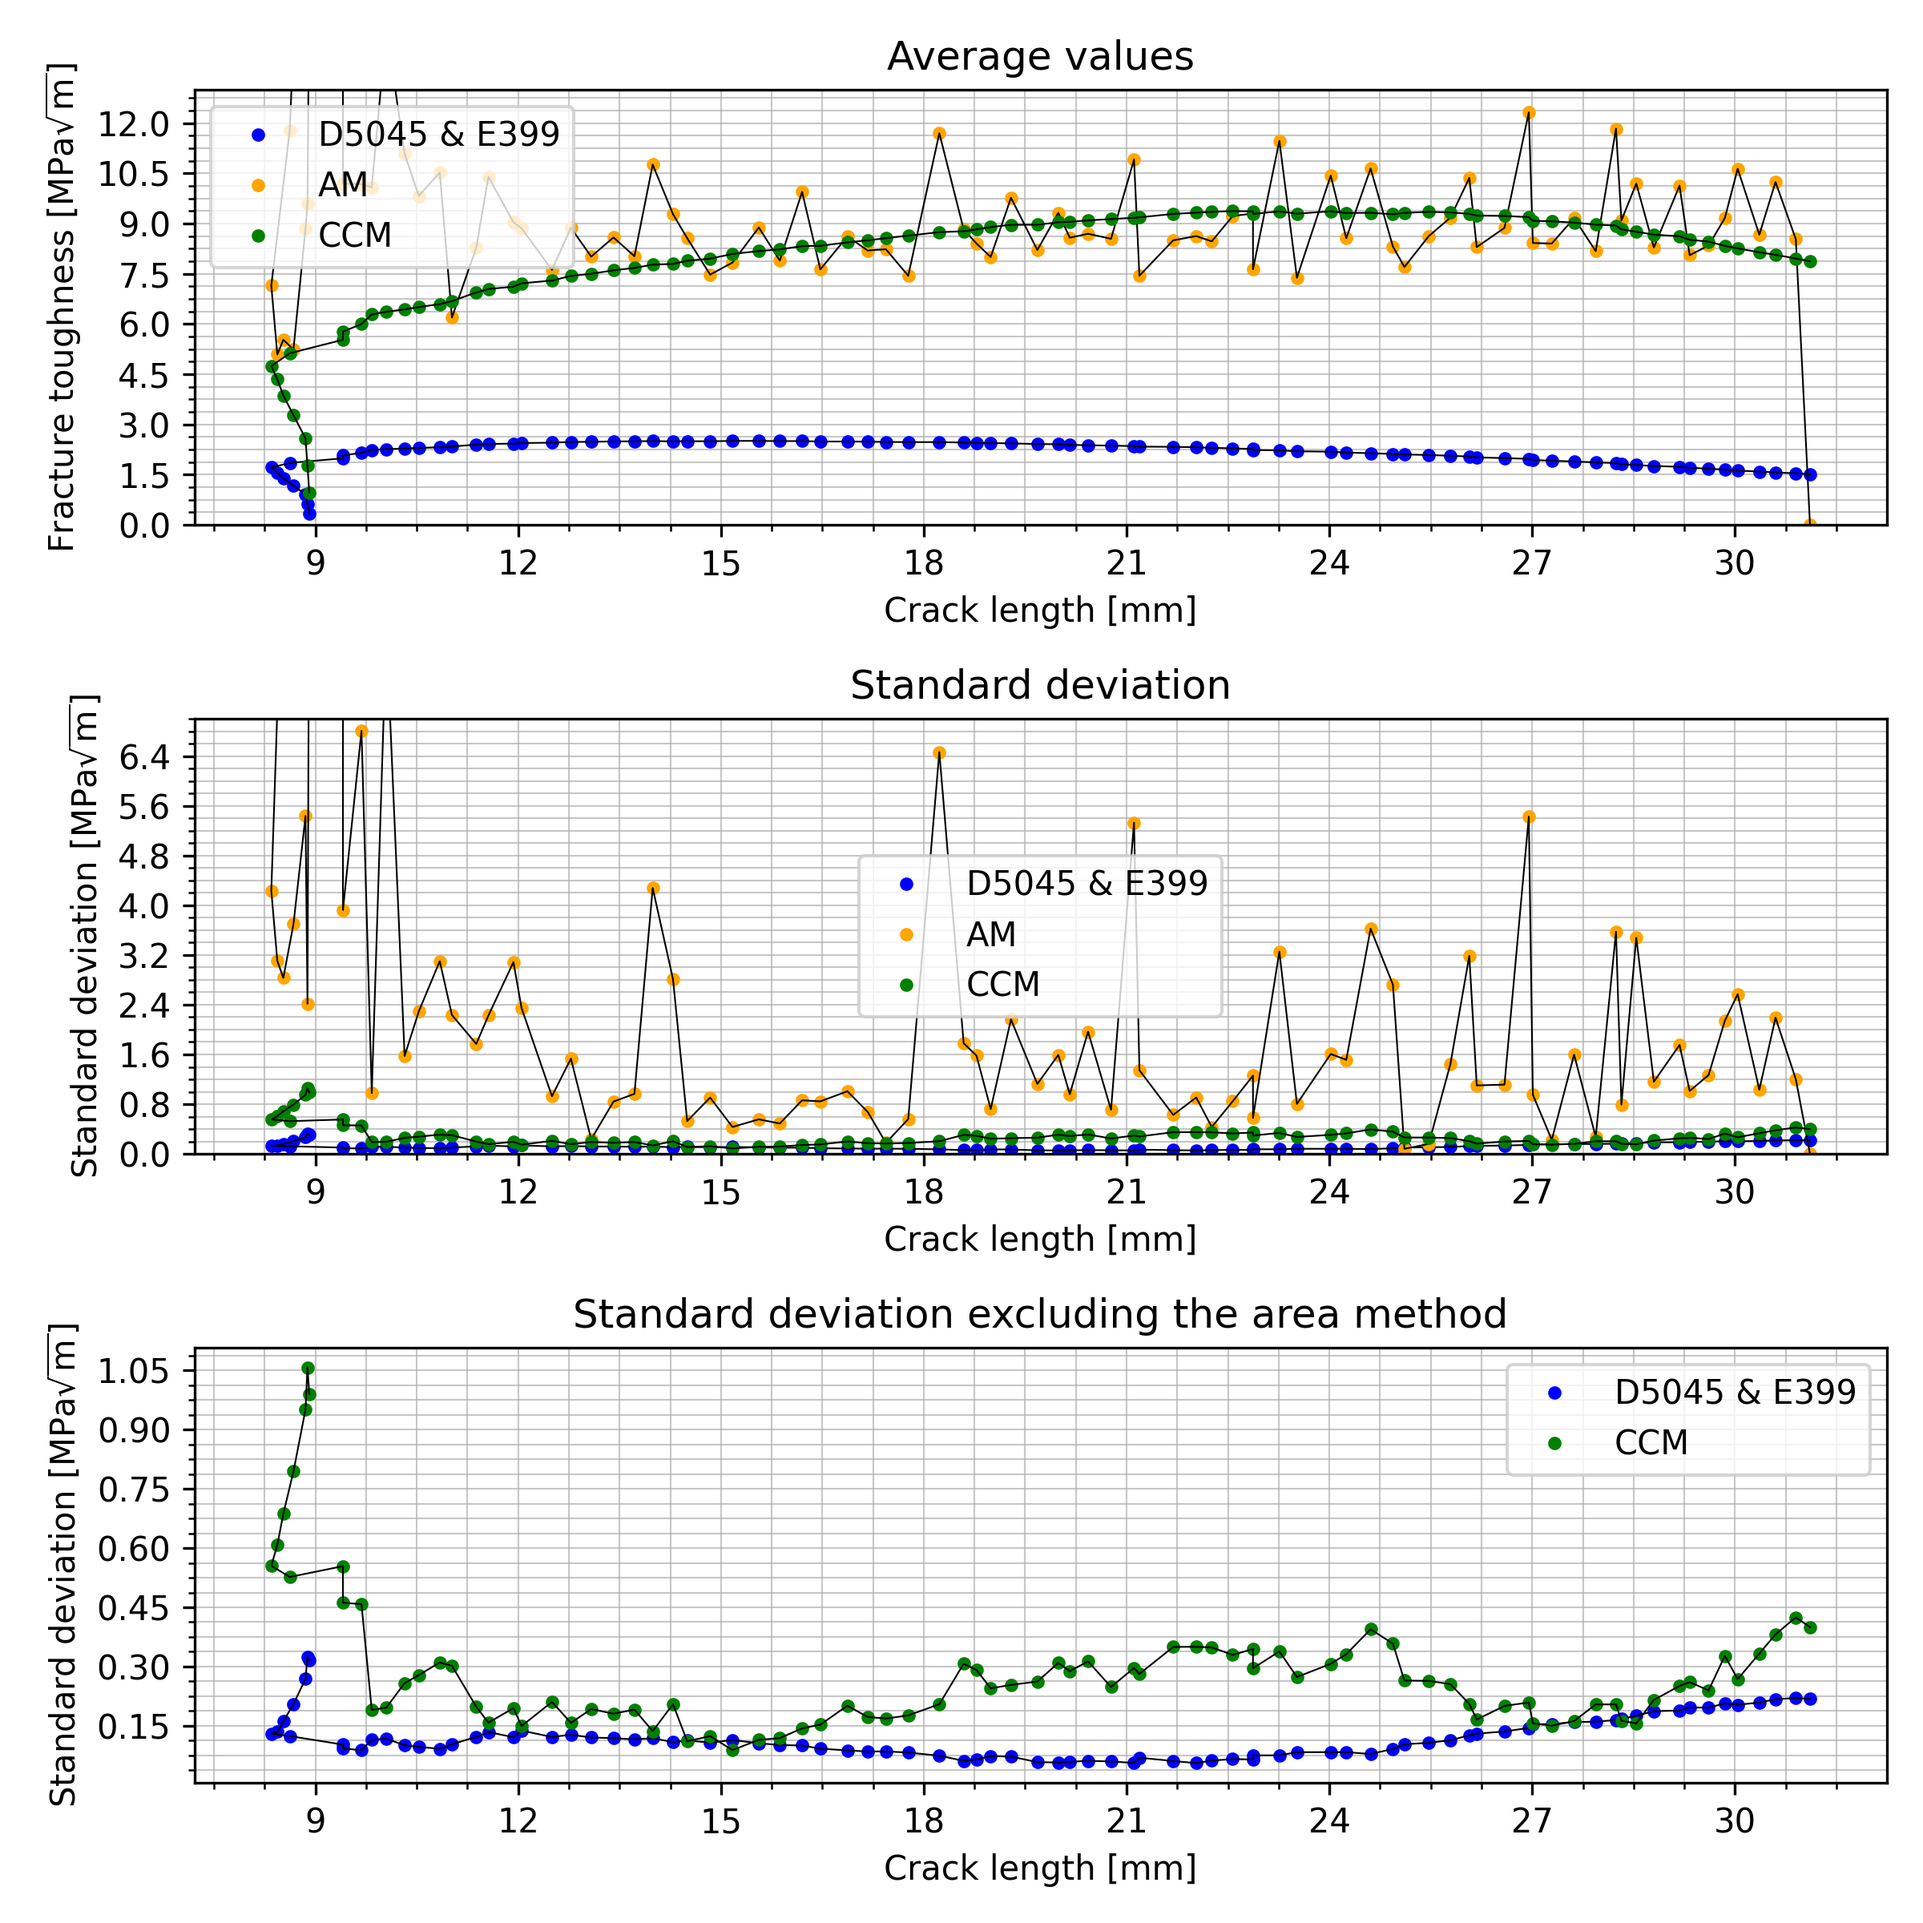
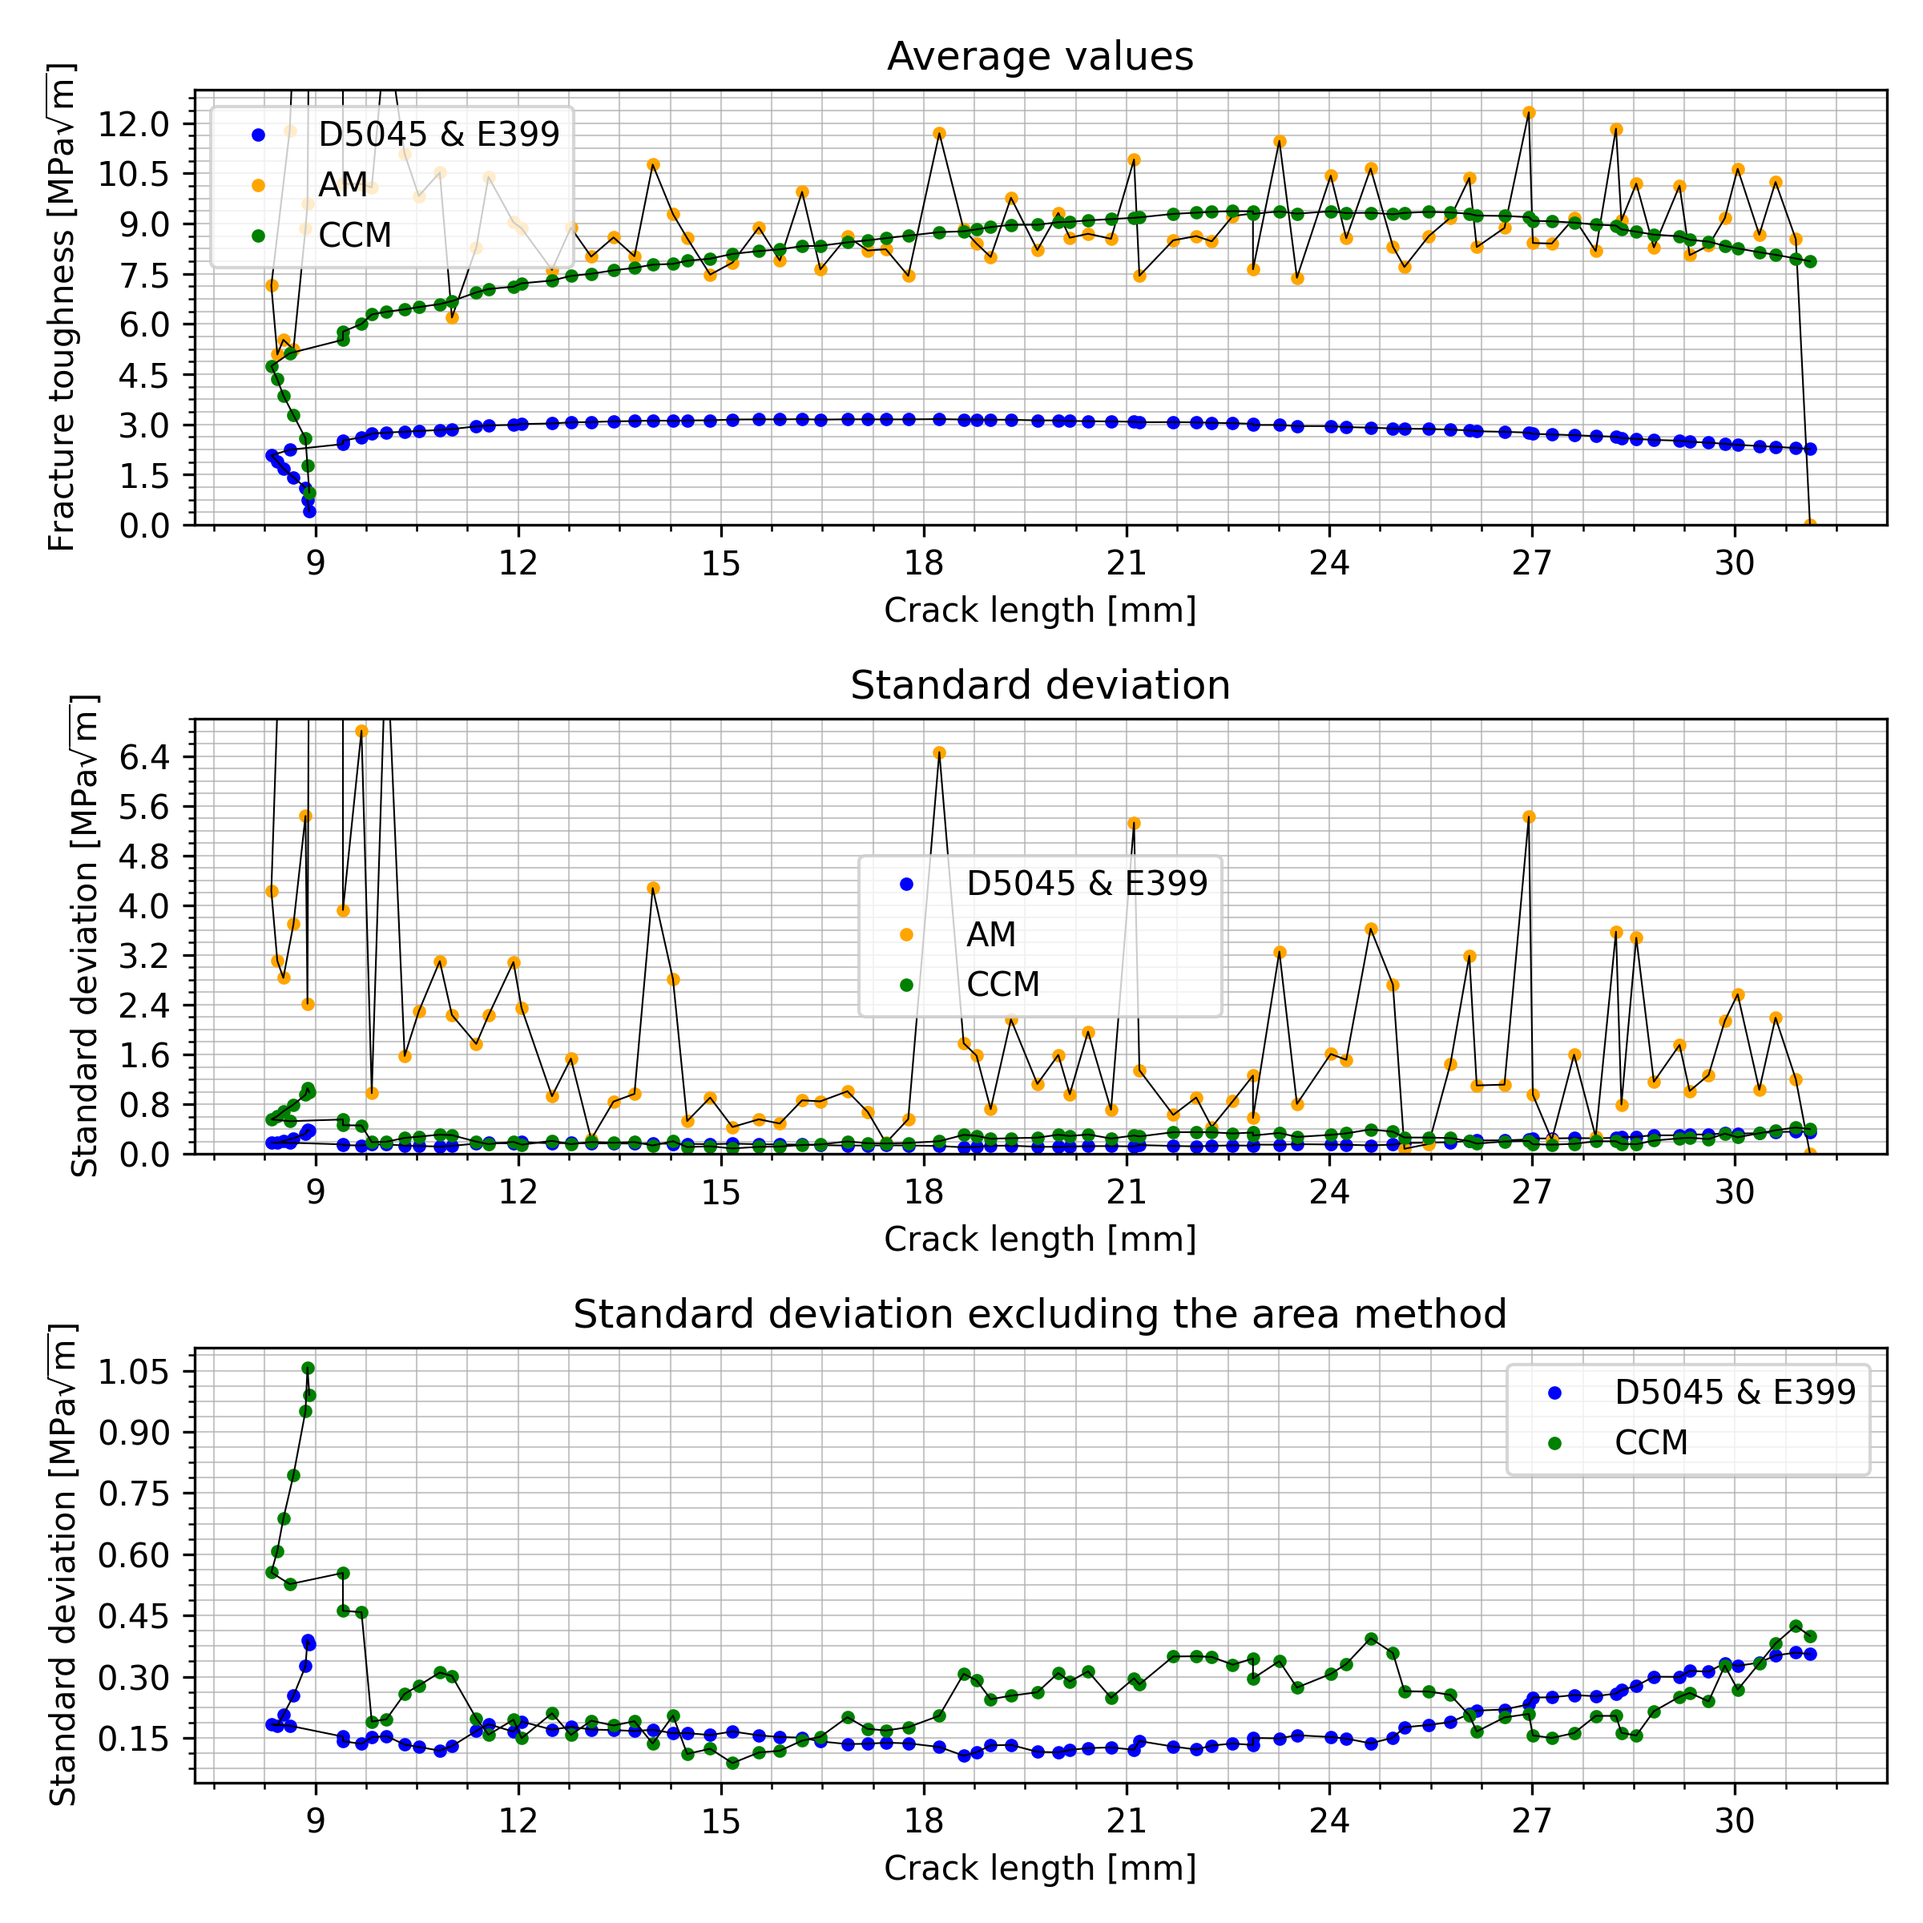
1

Changed region(s): [[0.0312, 0.7188, 0.9688, 0.9375], [0.125, 0.2188, 0.9375, 0.25], [0.5, 0.5938, 0.7188, 0.625]]

diff --git a/ASTM_D5045.py b/ASTM_D5045.py
@@ -5,9 +5,10 @@ import P_C_linearized
 import matplotlib.pyplot as plt
 
 #Initial values
-width=70/1000 #m
+width=(70-12)/1000 #m
 thickness=8/1000 #m
-#yield_stress=67*10**6 #Pa
+yield_stress=5*10**6 #Pa
+a=10/1000 #m
 
 def f(x):
     return ((2+x)*(0.886+4.64*x-13.32*x**2+14.72*x**3-5.6*x**4))/(1-x)**1.5
@@ -77,10 +78,9 @@ def sample(sample_number):
     #ligament=width-crack_length
 
 
-    #if maximum_load/intersection_load>1.1:
-       # print("Test ",sample_number, " is invalid due to max load!")
-       # error=1
-        #return(error)
+    if maximum_load/intersection_load>1.1:
+       print("Test ",sample_number, " is invalid due to max load!")
+       
     ratios=[]
     for i in list(crack_tip_length):
         ratio=i/width
@@ -92,27 +92,28 @@ def sample(sample_number):
     if displacement_at_max_load>original_intersection_displacement and displacement_at_max_load<intersection_displacement:
         P_Q=maximum_load
         #print('P_Q: ',P_Q)
-        #control_parameter=2.5*(K_Q(P_Q,thickness,width,x)/yield_stress)**2
-        #if control_parameter<thickness and control_parameter<ligament and control_parameter<crack_length:
+        control_parameter=2.5*(K_Q(P_Q,thickness,width,x)/yield_stress)**2
+        if control_parameter<thickness and control_parameter<(width-a) and control_parameter<crack_length:
+            print('The control parameter is satisifed!')
+        else:
+            print("Test ",sample_number, " is invalid!")
         K_IC=K_Q(P_Q,thickness,width,x)
         G_IC=G_Q(thickness,width,loads,list(np.array(displacements)/1000),x)
         return K_IC,G_IC,fracture_toughnesses,crack_tip_length,frames
-        #else:
-            #print("Test ",sample_number, " is invalid!")
-            #error=1
-            #return(error)
+        
     else:
         P_Q=intersection_load
         #print('P_Q: ',P_Q)
-        #control_parameter=2.5*(K_Q(P_Q,thickness,width,x)/yield_stress)**2
-        #if control_parameter<thickness and control_parameter<ligament and control_parameter<crack_length:
+        control_parameter=2.5*(K_Q(P_Q,thickness,width,x)/yield_stress)**2
+        if control_parameter<thickness and control_parameter<(width-a) and control_parameter<crack_length:
+            print('The control parameter is satisifed!')
+        else:
+            print("Test ",sample_number, " is invalid!")
         K_IC=K_Q(P_Q,thickness,width,x)
         G_IC=G_Q(thickness,width,loads,list(np.array(displacements)/1000),x)
         return K_IC,G_IC,fracture_toughnesses,crack_tip_length,frames
-        #else:
-            #print("Test ",sample_number, " is invalid!")
-            #error=1
-            #return(error)
+        
+
 #P_C_linearized.intersection_load(list(readData.load_displacement_curve(1)[:,1]),list(readData.load_displacement_curve(1)[:,0]))
 
 sample_number=1
